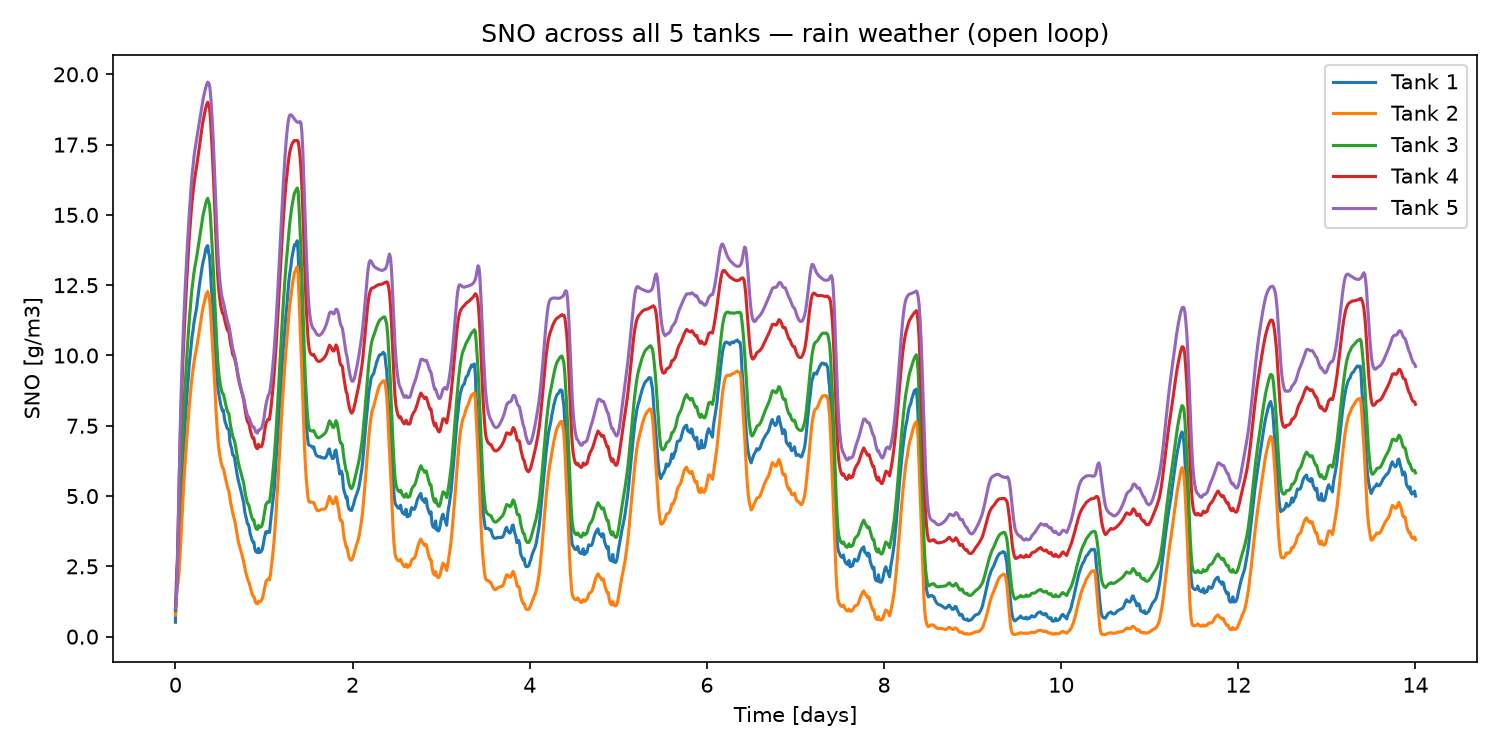
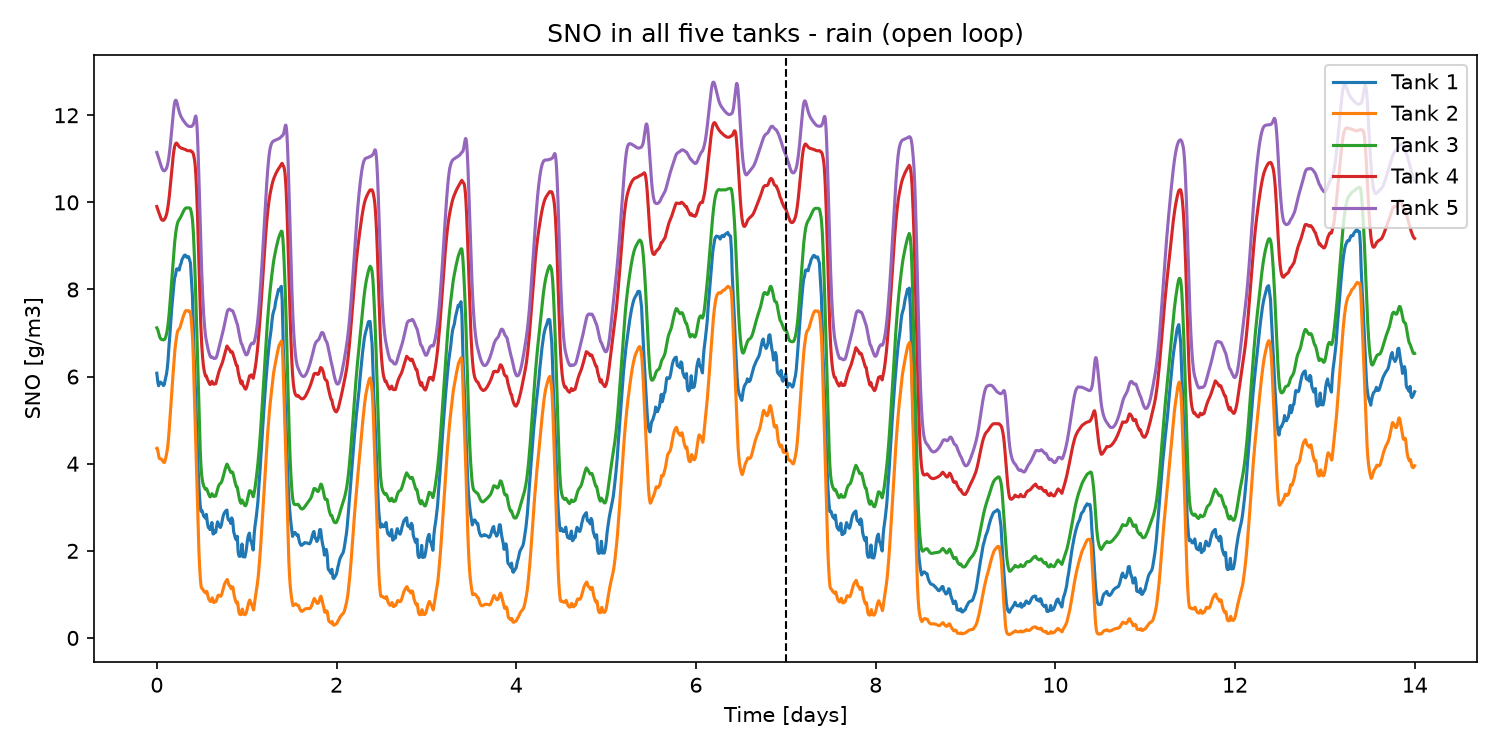
final push before download

diff --git a/common.py b/common.py
@@ -1,60 +1,26 @@
 """
-common.py
-Shared helper to load the dry/rain/storm influent .txt files and convert them
-into the 22-column array (time + 21 components) that BSM1OL expects.
+common.py  (new version, follows the IWA BSM1 report initialization procedure)
+
+Procedure used everywhere in this project:
+  1. Stabilize the plant for 100 days on a CONSTANT influent (BSM1 report, Table 5)
+  2. Run the 14-day dry-weather file as a warm-up
+  3. Run the weather file to be tested (14 days)
+  4. Evaluate only days 7 to 14 of that last file
 """
+import os
 import numpy as np
+from bsm2_python import BSM1OL
 
+# ------------------------------------------------------------------ settings
+TIMESTEP = 1 / 1440            # 1 minute [d] (needed for correct violation-time calculation)
+STAB_DAYS = 100                # length of the initial stabilization [d]
+STAB_DT = 1 / 96               # 15 min, only used during the 100-day stabilization (for speed)
 
-def load_influent(filepath, temp=15.0):
-    """
-    Load a BSM1 influent file with columns:
-        t  Si  Ss  Xi  Xs  Xbh  Xba  Xp  So  Sno  Snh  Snd  Xnd  Salk  Q
-    and return a (n, 22) array with columns:
-        t  SI SS XI XS XBH XBA XP SO SNO SNH SND XND SALK TSS Q TEMP SD1 SD2 SD3 XD4 XD5
+# Which constant influent to use for the 100-day stabilization:
+#   'bsm1_table5'  -> BSM1 report, Table 5 (Q = 18 446 m3/d)   <- default
+#   'package_file' -> constinfluent_bsm2.csv shipped inside bsm2-python (Q = 20 648 m3/d)
+CONSTANT_SOURCE = 'bsm1_table5'
 
-    Parameters
-    ----------
-    filepath : str
-        Path to the influent .txt file.
-    temp : float
-        Constant temperature [deg C] to fill in (BSM1 default is 15).
-
-    Returns
-    -------
-    data_in : np.ndarray, shape (n, 22)
-    """
-    # Some influent files have a text header row (e.g. "t Si Ss ..."); skip it if present.
-    with open(filepath) as f:
-        first_line = f.readline().strip()
-    try:
-        float(first_line.split()[0])
-        skip = 0  # first line is already numeric data
-    except ValueError:
-        skip = 1  # first line is a header, skip it
-
-    raw = np.loadtxt(filepath, skiprows=skip)  # shape (n, 15): t, Si..Salk, Q
-
-    t = raw[:, 0]
-    si, ss, xi, xs, xbh, xba, xp, so, sno, snh, snd, xnd, salk, q = (
-        raw[:, 1], raw[:, 2], raw[:, 3], raw[:, 4], raw[:, 5], raw[:, 6],
-        raw[:, 7], raw[:, 8], raw[:, 9], raw[:, 10], raw[:, 11], raw[:, 12],
-        raw[:, 13], raw[:, 14],
-    )
-
-    n = raw.shape[0]
-    tss = np.zeros(n)          # not provided in file -> assume 0 (standard BSM1 practice)
-    temp_col = np.full(n, temp)
-    sd1 = sd2 = sd3 = xd4 = xd5 = np.zeros(n)
-
-    data_in = np.column_stack([
-        t, si, ss, xi, xs, xbh, xba, xp, so, sno, snh, snd, xnd, salk,
-        tss, q, temp_col, sd1, sd2, sd3, xd4, xd5
-    ])
-    return data_in
-
-
-# Index of each ASM1 component within a 21-column row (y_out1, y_out2, ..., ys_eff, etc.)
 COMP = {
     'SI': 0, 'SS': 1, 'XI': 2, 'XS': 3, 'XBH': 4, 'XBA': 5, 'XP': 6,
     'SO': 7, 'SNO': 8, 'SNH': 9, 'SND': 10, 'XND': 11, 'SALK': 12,
@@ -62,15 +28,80 @@ COMP = {
     'XD4': 19, 'XD5': 20,
 }
 
-def build_constant_influent(reference_filepath, n_days=5, timestep_days=1 / 1440, temp=15.0):
-    """
-    Build a constant (unchanging) influent by averaging the dry-weather file,
-    repeated for n_days. Used for clean step-response tests (Step 2).
-    """
-    data_in = load_influent(reference_filepath, temp=temp)
-    avg_row = data_in[:, 1:].mean(axis=0)  # average of all 21 components over the whole file
 
-    n_steps = int(n_days / timestep_days) + 1
-    t = np.arange(n_steps) * timestep_days
-    const_block = np.tile(avg_row, (n_steps, 1))
-    return np.column_stack([t, const_block])
+def _tss(xs, xi, xbh, xba, xp):
+    """Influent TSS from the particulate COD fractions (BSM1 report, eq. 89)."""
+    return 0.75 * (xs + xi + xbh + xba + xp)
+
+
+def load_influent(filepath):
+    """Read a course influent file (t Si Ss Xi Xs Xbh Xba Xp So Sno Snh Snd Xnd Salk Q)
+    and return the (n, 22) array expected by bsm2-python."""
+    with open(filepath) as f:
+        first = f.readline().split()
+    try:
+        float(first[0]); skip = 0
+    except ValueError:
+        skip = 1                                   # file has a text header row
+    raw = np.loadtxt(filepath, skiprows=skip)
+    t, c, q = raw[:, 0], raw[:, 1:14], raw[:, 14]
+    tss = _tss(c[:, 3], c[:, 2], c[:, 4], c[:, 5], c[:, 6])
+    n = len(t)
+    return np.column_stack([t, c, tss, q, np.full(n, 15.0), np.zeros((n, 5))])
+
+
+def constant_row():
+    """21-component constant influent used for the 100-day stabilization."""
+    if CONSTANT_SOURCE == 'package_file':
+        import bsm2_python
+        p = os.path.join(os.path.dirname(bsm2_python.__file__), 'data', 'constinfluent_bsm2.csv')
+        return np.loadtxt(p, delimiter=',', ndmin=2)[0, 1:]
+    # BSM1 report, Table 5 (flow-weighted averages)
+    si, ss, xi, xs, xbh, xba, xp = 30.0, 69.5, 51.2, 202.32, 28.17, 0.0, 0.0
+    so, sno, snh, snd, xnd, salk, q = 0.0, 0.0, 31.56, 6.95, 10.59, 7.0, 18446.0
+    return np.array([si, ss, xi, xs, xbh, xba, xp, so, sno, snh, snd, xnd, salk,
+                     _tss(xs, xi, xbh, xba, xp), q, 15.0, 0, 0, 0, 0, 0])
+
+
+def build_constant_data(days):
+    """Constant influent lasting `days` days."""
+    r = constant_row()
+    return np.vstack([np.r_[0.0, r], np.r_[float(days), r]])
+
+
+def build_weather_data(test_file, warmup_file='dry_data.txt'):
+    """14 days of dry weather (warm-up) followed by the 14-day test file.
+    The last 7 days of the test file (t = 21 ... 28 d) are the evaluation window."""
+    warm = load_influent(warmup_file)[:-1].copy()   # drop last row (t=14) -> no duplicate time
+    test = load_influent(test_file).copy()
+    test[:, 0] += 14.0
+    return np.vstack([warm, test])
+
+
+def make_plant(data_in, eval_window):
+    """Create an open-loop BSM1 plant (1-minute time step) with the given evaluation window [d]."""
+    end = data_in[-1, 0]
+    return BSM1OL(data_in=data_in, timestep=TIMESTEP,
+                  evaltime=[float(eval_window[0]), float(end - TIMESTEP)])
+
+
+def stabilize_constant(plant, days=STAB_DAYS, klas=None, record_every=96):
+    """Run `days` days on the constant influent (no disturbance), starting from the plant's
+    initial state. Returns recorded (time, SO5, SNO2, SNH5) so the run can be plotted/checked."""
+    plant.y_in[0, :] = constant_row()               # first influent row = constant input
+    old_dt = plant.timesteps[0]
+    plant.timesteps[0] = STAB_DT
+    n = int(round(days / STAB_DT))
+    rec = []
+    for k in range(n):
+        plant.step(0, klas) if klas is not None else plant.step(0)
+        if k % record_every == 0:
+            rec.append((k * STAB_DT, plant.y_out5[COMP['SO']], plant.y_out2[COMP['SNO']], plant.y_out5[COMP['SNH']]))
+    plant.timesteps[0] = old_dt
+    return np.array(rec)
+
+
+def run_open_loop(plant):
+    """Run all time steps (open loop, default aeration KLa = [0, 0, 240, 240, 84], Qint = 55 338)."""
+    for i in range(len(plant.timesteps)):
+        plant.step(i)

diff --git a/step1_openloop.py b/step1_openloop.py
@@ -1,56 +1,70 @@
 """
-step1_openloop.py
-Runs BSM1 open-loop (no control) under dry, rain, and storm weather conditions.
-Plots SO, SNH, SNO across all 5 reactor tanks for each condition and saves
-the figures as PNG files you can open and put in your report.
+step1_openloop.py  -  Step 1: understand the plant (open loop, no control)
+
+Cases: constant influent, dry, rain, storm.
+Every case follows the BSM1 initialization procedure (see common.py).
 """
 import numpy as np
 import matplotlib
-matplotlib.use('Agg')  # so it saves to file instead of trying to pop up a window
+matplotlib.use('Agg')
 import matplotlib.pyplot as plt
 
-from bsm2_python import BSM1OL
-from common import load_influent, COMP
+from common import (COMP, TIMESTEP, build_constant_data, build_weather_data,
+                    make_plant, stabilize_constant, run_open_loop)
 
-WEATHER_FILES = {
-    'dry': 'dry_data.txt',
-    'rain': 'rain_data.txt',
-    'storm': 'storm_data.txt',
-}
-
-TANK_ATTRS = ['y_out1_all', 'y_out2_all', 'y_out3_all', 'y_out4_all', 'y_out5_all']
-VARS_TO_PLOT = ['SO', 'SNH', 'SNO']
+TANK_ARRAYS = ['y_out1_all', 'y_out2_all', 'y_out3_all', 'y_out4_all', 'y_out5_all']
+VARS = ['SO', 'SNH', 'SNO']
 
 
-def run_weather(name, filepath):
-    print(f'\n=== Running open-loop BSM1 under {name} weather ===')
-    data_in = load_influent(filepath)
-
-    bsm1 = BSM1OL(data_in=data_in)
-    bsm1.simulate(plot=False)
-
-    for var in VARS_TO_PLOT:
-        idx = COMP[var]
+def plot_tanks(plant, label, plot_from, mark_eval):
+    n = len(plant.timesteps)                    # the last time point is never simulated
+    t = plant.simtime[:n] - plot_from
+    keep = t >= 0
+    for var in VARS:
         plt.figure(figsize=(10, 5))
-        for tank_num, attr in enumerate(TANK_ATTRS, start=1):
-            tank_data_all = getattr(bsm1, attr)
-            plt.plot(bsm1.simtime, tank_data_all[:, idx], label=f'Tank {tank_num}')
+        for k, name in enumerate(TANK_ARRAYS, start=1):
+            plt.plot(t[keep], getattr(plant, name)[:n][keep, COMP[var]], label=f'Tank {k}')
+        if mark_eval:
+            plt.axvline(7, color='k', linestyle='--', linewidth=1)
         plt.xlabel('Time [days]')
         plt.ylabel(f'{var} [g/m3]')
-        plt.title(f'{var} across all 5 tanks — {name} weather (open loop)')
-        plt.legend()
+        plt.title(f'{var} in all five tanks - {label} (open loop)')
+        plt.legend(loc='upper right')
         plt.tight_layout()
-        outname = f'step1_{name}_{var}.png'
-        plt.savefig(outname, dpi=150)
+        plt.savefig(f'step1_{label}_{var}.png', dpi=150)
         plt.close()
-        print(f'  saved {outname}')
 
-    return bsm1
+
+def run_case(label, data_in, eval_start, plot_from, mark_eval):
+    print(f'\n=== {label} ===')
+    plant = make_plant(data_in, (eval_start, None))
+    rec = stabilize_constant(plant)                 # 100 days on the constant influent
+    print(f'  after 100-day stabilization: SO5={plant.y_out5[COMP["SO"]]:.3f}  '
+          f'SNO5={plant.y_out5[COMP["SNO"]]:.3f}  SNH5={plant.y_out5[COMP["SNH"]]:.3f}')
+    run_open_loop(plant)
+    plot_tanks(plant, label, plot_from, mark_eval)
+    iqi, eqi, me, pe, ae = plant.get_final_performance()
+    viol = plant.get_violations()['SNH']
+    print(f'  IQI={iqi:.1f}  EQI={eqi:.1f}  AE={ae:.2f}  PE={pe:.2f}  ME={me:.2f}  SNH violation={viol:.3f} d')
+    return rec, dict(iqi=iqi, eqi=eqi, ae=ae, pe=pe, me=me, viol=viol)
 
 
 if __name__ == '__main__':
     results = {}
-    for name, filepath in WEATHER_FILES.items():
-        results[name] = run_weather(name, filepath)
 
-    print('\nAll done. Check the .png files in the file explorer.')
+    # constant influent: 100-day stabilization is plotted too (supervisor step 7)
+    rec, results['constant'] = run_case('constant', build_constant_data(14), 7.0, 0.0, False)
+    fig, ax = plt.subplots(3, 1, figsize=(10, 8), sharex=True)
+    for a, col, nm in zip(ax, (1, 2, 3), ('SO tank 5 [g/m3]', 'SNO tank 2 [g/m3]', 'SNH tank 5 [g/m3]')):
+        a.plot(rec[:, 0], rec[:, col]); a.set_ylabel(nm)
+    ax[0].set_title('100-day stabilization on constant influent')
+    ax[2].set_xlabel('Time [days]')
+    plt.tight_layout(); plt.savefig('step1_stabilization_100d.png', dpi=150); plt.close()
+
+    for label, fname in (('dry', 'dry_data.txt'), ('rain', 'rain_data.txt'), ('storm', 'storm_data.txt')):
+        _, results[label] = run_case(label, build_weather_data(fname), 21.0, 14.0, True)
+
+    print('\n=== Summary (evaluation = days 7-14 of each weather file) ===')
+    for k, r in results.items():
+        print(f'{k:9s} EQI={r["eqi"]:8.1f}  AE={r["ae"]:7.2f}  PE={r["pe"]:6.2f}  ME={r["me"]:5.1f}  SNH violation={r["viol"]:.3f} d')
+    print('BSM1 report, open-loop dry weather: EQI=6690.1  AE=3341.39  PE=388.17  ME=240  SNH violation=4.375 d')
